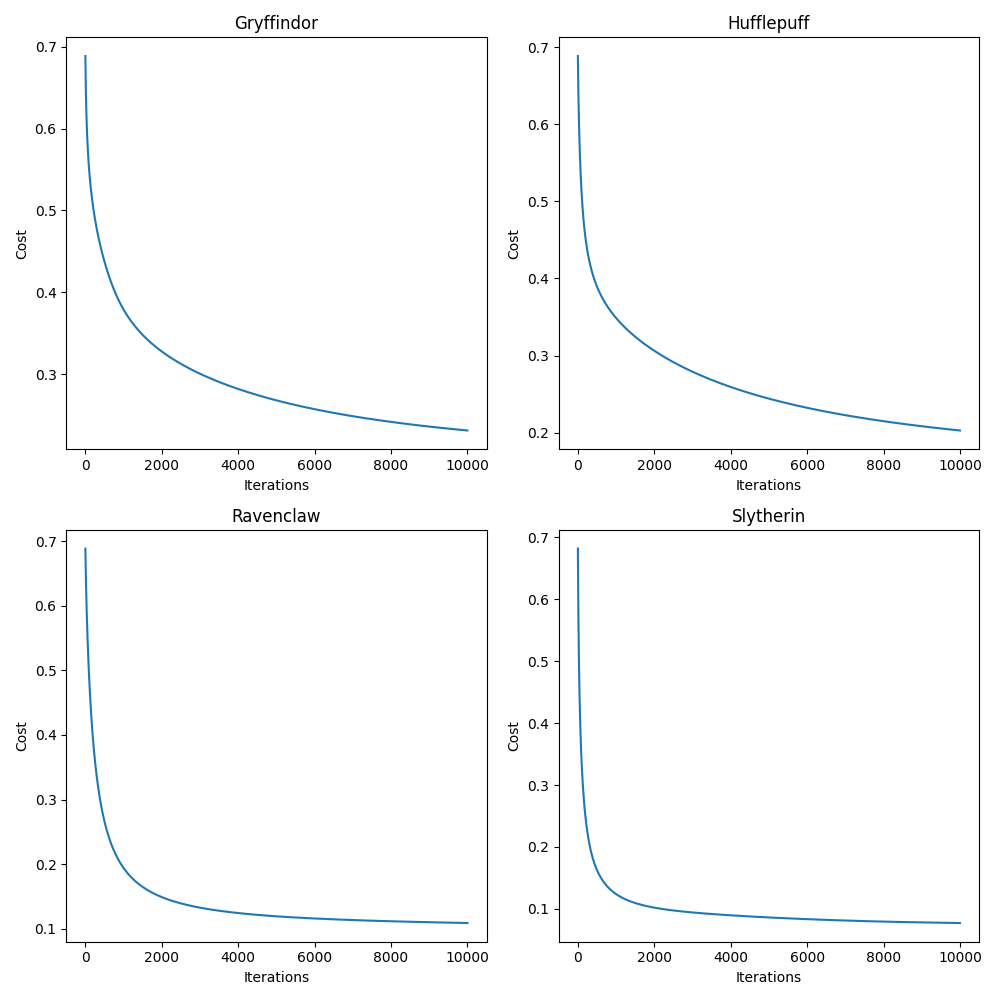
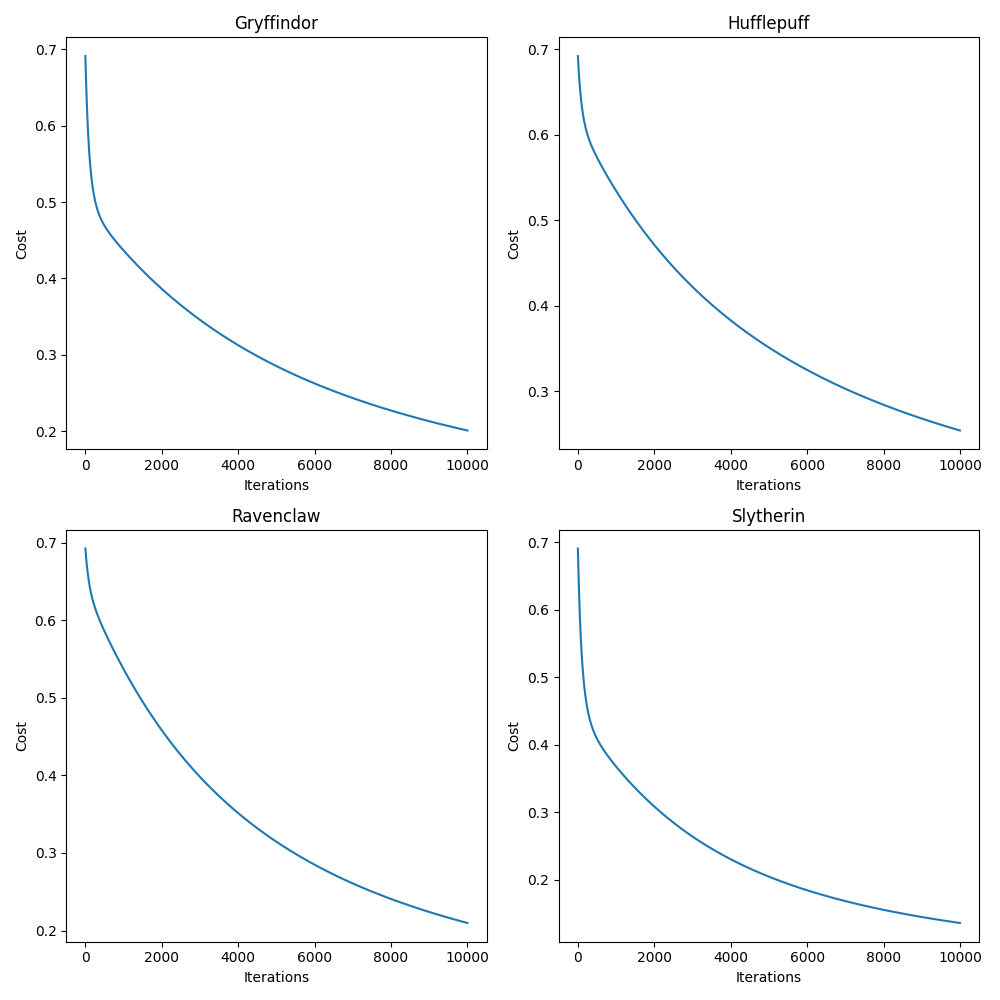
MBGD

diff --git a/minibatch_logreg_train.py b/minibatch_logreg_train.py
@@ -1,0 +1,125 @@
+import pandas
+import matplotlib.pyplot as plt
+import os
+import sys
+from utils import *
+import numpy as np
+import pickle
+
+def sigmoid_function(x):
+	return (1 / (1 + np.exp(-x)))
+
+
+def cost_function(data, vals, theta):
+	size = len(vals)
+	h = sigmoid_function(data @ theta)
+	epsilon = 1e-5  # prevent log(0)
+	cost = -(1 / size) * ((vals @ np.log(h + epsilon)) + ((1 - vals) @ np.log(1 - h + epsilon)))
+	return cost
+
+
+def minibatch_gradient_descent(data, vals, theta, learning_rate: float, iterations: int, batch_size: int = 32):
+
+	size = len(vals)
+	all_cost = []
+
+	for i in range(iterations):
+		rand_i = np.random.permutation(size)
+		x = data[rand_i]
+		y = vals[rand_i]
+		for n in range(0, size, batch_size):
+			x_i = x[n: n + batch_size]
+			y_i = y[n: n + batch_size]
+			sigmoid = sigmoid_function(x_i @ theta)
+			gradient = (1 / len(y_i)) * np.dot(x_i.T, (sigmoid - y_i))
+			theta = theta - (learning_rate * gradient)
+
+		all_cost.append(cost_function(data, vals, theta))
+
+	return theta, all_cost
+
+
+if __name__ == '__main__':
+	
+	if len(sys.argv) != 2:
+		print("The arguments are bad")
+		exit(1)
+
+	try:
+		data: pandas.DataFrame = pandas.read_csv(sys.argv[1])
+		data = replace_nan_with_median(data)
+	except:
+		print("Error reading data")
+		exit(1)
+	
+	learning_rate = 0.01
+	iterations = 10000
+
+	# GET HOUSES
+	print("--------------Hogwarts Houses--------------\n")
+	category = data['Hogwarts House'].astype('category')
+	y = category.cat.codes.to_numpy() # Get the original results to compare our precission 
+	orig_houses = category.cat.categories.tolist()
+	print(orig_houses)
+	houses = np.arange(len(orig_houses))
+
+	# GET SELECTED FEATURES
+	print("\n\n--------------Selected Features--------------\n")
+	#features = ['Ancient Runes', 'Defense Against the Dark Arts', 'Charms']
+	features = ['Ancient Runes', 'Defense Against the Dark Arts', 'Charms', 'Divination']
+	data = data[features]
+	print(data)
+
+	if NORMALIZE:
+		# NORMALIZE DATA
+		print("\n\n--------------NORMALIZE DATA--------------\n")
+		data = normalize(data)
+		print(data)
+		data = data.to_numpy()
+	else:
+		# STANDARIZE DATA
+		print("\n\n--------------STANDARIZE DATA--------------\n")
+		data = data.to_numpy()
+		data = standarize(data)
+		print(data)
+
+	# ADD BIAS AS AN EXTRA FEATURE
+	print("\n\n--------------Features With BIAS--------------\n")
+	data = np.insert(data, 0, 1.0, axis=1)
+	print(data)
+
+	# EXECUTE TRAINING
+	print("\n\n--------------TRAINING--------------\n")
+	all_thetas = np.zeros((len(houses), data.shape[1]))
+	#all_thetas = np.zeros((data.shape[1], 5))
+	all_costs = []
+	for i, house in enumerate(houses):
+		vals = np.where(y == house, 1, 0) # For each Hogwarts house make a list from students with 1 if they are from that house or 0 if not
+		theta, cost = minibatch_gradient_descent(data, vals, all_thetas[i], learning_rate, iterations)
+		all_thetas[i] = theta
+		all_costs.append(cost)
+		print(orig_houses[house])
+		print (f"THETAS: {theta.tolist()}")
+		# print (f"COST: {cost}\n")
+
+	# DRAW LOSS COST
+	plt.rcParams["figure.figsize"] = (10, 10)
+	fig = plt.figure() 
+	for i, cost_history in enumerate(all_costs):
+		plt.subplot(2, 2, i + 1)
+		plt.plot(cost_history) 
+		plt.title(orig_houses[i])
+		plt.xlabel('Iterations')
+		plt.ylabel('Cost')
+
+	fig.tight_layout()
+	plt.savefig('plots/minibatch_cost.png')
+
+	# SAVE RESULTS
+	output_dir = 'datasets'
+	os.makedirs('datasets', exist_ok=True)
+	output_path = os.path.join('datasets', 'minibatch_logreg_thetas.pkl')
+	with open(output_path, 'wb') as f:
+		pickle.dump(all_thetas, f)
+	print(f'Thetas values saved in {output_path}.')
+
